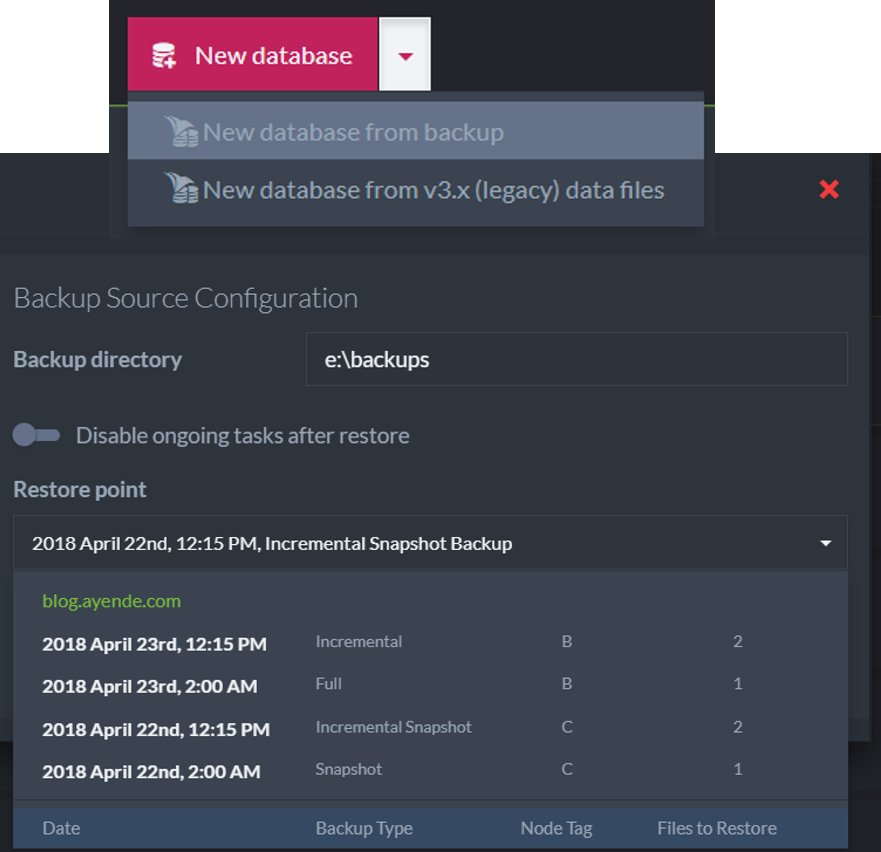
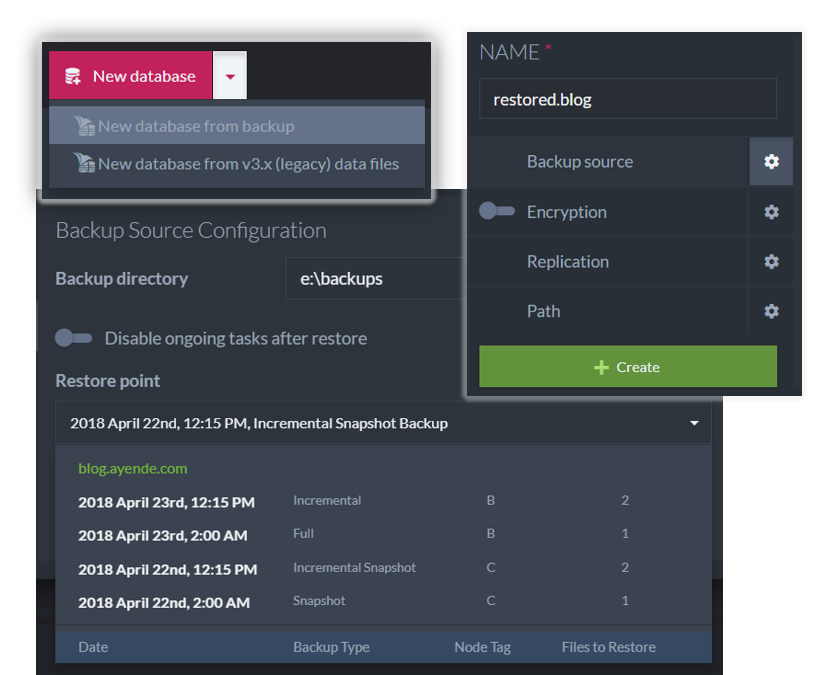
Talking about restoring data and (not) clusters

diff --git a/Ch17/Ch17.md b/Ch17/Ch17.md
@@ -393,20 +393,211 @@ a database from backup. RavenDB attempts to make the restore process simple and 
 need to go to the `Databases` view in the Studio and click on the cheveron near the `New database` button then select 
 `New database from backup`. The result of this is shown in Figure 17.8.
 
-![Setting out to restore a database](./Ch17/img08.png)
+![How to restore a database in RavenDB](./Ch17/img08.png)
 
+Figure 17.8 shows the basic structure of restoring a RavenDB database. You create a new database from backup, provide the name
+for the new database (it is cropped from Figure 17.8 for space reasons) and the path for the backup. Once you have provided the
+path RavenDB will inspect the directory and list the backups that can be restored from that path.
 
+You can see that in this case, we have a Snapshot from node C from April 22th at 2 AM and an incremental snapshot from the same
+node at 12:15 PM of the same day. The next day, April 23, we have a full backup at 2 AM from node B and an incremental backup
+at 12:15 PM. 
+RavenDB make it easy to decide to what point in time you will restore. RavenDB also handles such details as knowing how to start 
+from a full backup or a snapshot and then apply the incremental backups up to the point you have specified. 
 
+Figure 17.8 also contains a bit more information. Some slicing and dicing was required to make it all fit into the pages of this
+book but it should be clear enough. Of great importance is the `Disable ongoing tasks after restore` flag. If this is set, RavenDB
+will disable all the ongoing tasks (backups, subscriptions, ETL processes, etc) in the database. This is what you want if you are
+restoring a database for a secondary purpose (you want another copy of the database, but you don't want the same behavior). You
+want to keep this flag disable if you are actually restoring to replace the database. As this is the primary reason why you would
+restore databases, this is disabled by default.
 
-Important to practice, can take a LONG time.
+> **Backup locations**
+> 
+> RavenDB has no issue if all your databases go to the same location, it uses the database name as part of a backup folder
+> to distinguish which database is responsible for which backup. On restore, you can provide the root backup path for all
+> your backups and RavenDB will probe that for all the available backups, sort them by their database and date.
+> 
+> If you have a lot of databases (or a lot of backups) this can be awkward to search for in a big list. It is usually 
+> easier to specify a separate backup folder for each database (such as `e:\backups\blog.ayende.com`, 
+> `e:\backups\users.northwind`, etc). 
 
-How to restore to a single node
-How to restore to the whole cluster.
+Figure 17.8 also shows some interesting options. If you are using a full backup option, you can specify that the new database 
+will be encrypted (and setup a new key)^[This option is not available for snapshots. A snapshot is a binary copy of the database
+at a given point, and either it is already encrypted and has its own key or it is unencrypted and will require an import/export
+cycle for encryption.]. Figure 17.9 shows the result of the restoration process.
 
-Managing the encryption keys!
+![Setting out to restore a database](./Ch17/img09.png)
 
-#### External replication as a backup strategy
+The restore process can take a _long_ time. In Figure 17.9 you can see that the restore process took 2 seconds or so and the
+database size was about 700MB (see Figure 17.1 for the kind of backup that was restored). This is a very small database, for
+databases who range in the hundreds of GB or more you can expect much higher restore duration. Snapshots speed up the process
+significantly, but the cost in I/O is significant and should be accounted for. 
+You should practice your restores to see how much they take on your own hardware and account for that in any disaster
+recovery plans you make. 
 
-Delayed
+In particular, you need to account for the fact that you need to have the backup media available on the machine you want to
+restore it. Consider a backup strategy that backups to a local folder (retained one week), Amazon S3 (retained one year) and 
+Amazon Glacier (retained forever). 
+
+Assuming that you want to restore from a recent backup, you can expect pretty speedy restore times. I have tested this on a
+AWS machine (`t2.large` with 2 cores, 8 GB of RAM and an EBS volume with 2,000 IOPS). Restoring a full backup from a 5 GB
+backup file had a restore time of about 3 hours. 
+A full backup that is 5 GB in size is compressed json, which usually have _really_ good compression properties. Such a backup
+expanded to a database whose size exceeded 350GB. That takes _time_ to insert to the database. A snapshot can usually
+be restored more quickly. But the same 350GB database will have a snapshot of about 30GB and on the `t2.large` machine is
+took just under an hour.
+
+> **Remember to account for indexing time as well**
+> 
+> When measuring the restore time, you need to also take into account that indexes will need to be updated as well. A 
+> snapshot restore includes the database state (including all the indexes) at the time of the snapshot, but incremental
+> restore on top of that (and full / incremental backups in general) only include the index definitions, not the indexed
+> data as well.
+>
+> RavenDB will complete the restore of the backup when all the documents have been written and will not wait for the indexes
+> to complete. Indexing of the data is done normally throught async tasks at that time and may take a while to complete, 
+> depending on how much there is to index and what it the initial state. This is done to give you access to the documents
+> as soon as possible and enable you to start defining a replication factor for the new database as soon as possible.
+
+I intentionally took the numbers from a relatively low powered machine, since that gives you a good idea on the lower bounds
+of these numbers.
+Your real production machines are likely to be more powerful, but there is still a length of time in which
+the server is going to be restoring the database. And remember that this is when the backup is available on the local machine.
+If you need to restore from Amazon S3 you also need to account for the
+time to fetch the data from S3 (which can be significant for large databases) and using a service like Amazon Glacier has a
+minimum latency of _days_. That has to play a part in your disaster recovery plans. 
+
+#### Backups are not for high availability
+ 
+I've emphasised the length of time restoring from backup can take a few times already, and I feel like I need to explain
+exactly why this is the case. There is a (mistaken) belief in some operations teams that they can get away with having 
+just a single instance, and any reliability issues they have can be handled by restoring from backup.
+
+To a certain extent, this is true, but this is only true if you don't care about the availability of your system. In 
+many cases, relying on restoring from backup may mean that you are stranded without a database for a long time. This is 
+especially true if you don't have a regularly excersized process for actually restoring the data.
+
+Conversely, if you have a cluster and a database that spans multiple nodes does not mean that you can just ignore the 
+issue of backups. Spreading the database on multiple nodes ensures that any single (or even multiple) nodes going down
+will not affect your ability to access (and modify) your data. However, it does absolutely nothing to protect you from 
+accidental data modifications or deletes. That is what a backup gives you, the ability to roll back the clock and go
+to a previous state of the database. 
+
+Another option that you have that combine these two options is the notion of delayed external replication. You can setup
+a replication target that will have a certain amount of lag builtin to it. For example, you can specify that you want a 
+6 hours delay in replication. This means that any change in your system will not be reflected on the replica for 6 hours.
+That gives you a hot node that you can refer to and recover lost or modified data. 
+
+#### Restoring is done locally
+
+When you restore a database, you always provide a file path. This is a path for the _specific_ node that you are restoring
+from and it is local to this node. The database is also going to be restored only to that specific node. This has several
+interesting implications.
+
+First, you need a file path. This seems obvious, but it means that you need a way to expose the backups to RavenDB as a file
+path. This is easy enough when you are backing up to a local path in the first place, but what happens if you have backed
+up to the Azure Blob Storage or to Amazon S3? In that case, you will usually download the files to the local machine and
+then restore them from the local path.
+
+Alternatively, you can use projects such as `S3FS-FUSE` and `BlobFUSE` to mount cloud storage as a normal volume in your system.
+That will allow RavenDB to access the data directly from these systems without having to first download it to the local machine
+and it can save some time in the restoration process.
+
+The second implication of the local restore is that if you want to restore a database to multiple nodes, the typical process
+this is done is by restoring it on one node and then modifying the database group topology to spread it to the other nodes
+in the system. Part of the reason that we make the database available immediately after backup, even before the indexes had
+a chance to run is that it allows us to start replicating the data to other nodes in the cluster sooner.
+
+#### Restoring to mulitple nodes at the same time
+
+As already mentioned previously, restoring from backup can be a lengthy process. Even though we don't recommend that you'll
+treat this as a time sensitive operation, you are likely to want to spend as little time on this as possible. One option 
+that is usually raised is to restore the database on multiple nodes at the same time. 
+
+The idea is that this can save the secondary step of replicating the data to the other nodes in the cluster, because while
+the first node was restoring, so did all the other nodes in database group. The problem with this approach is that this 
+ignores the real costs of actual data transfer. In most cases, you'll restore to the node that you have the latest backup
+on because that is the one that is going to take the least amount of time to restore on.
+Then, once you have the database up and running you can expand it at your leisure. 
+
+Restoring it on other nodes will require to copy all the backup data to the other nodes and then restore there as well. This
+is possible, but it rarely ends up speeding the entire process in any significant way and it usually adds overhead to the
+process.
+There are other issues, as well. When restoring from a full backup on multiple nodes, each instance will generate its own
+separate change vectors for each document. RavenDB is able to handle that and can reconcile such changes automatically, but
+it still means that each of the nodes will have to send all the data to all the other nodes to compare between them.
+
+When using a snapshot, because this is a binary clone of the database at the specified time, restoring on multiple nodes can
+be done without generation of different change vectors. This means that the databases can detect early on that the data they
+have is identical and not even have to send it over the network. For this reason, I'm only going to explain how to perform
+a multiple node restore for snapshots. Even so, it is probably not something that you should usually do. Here is what you'll
+need to do:
+
+* Ensure that on all the nodes in the cluster that you want to restore on you have a way to access the data. This can be 
+  copying it to each machine, having it shared on the network, using mount tools such as `S3FS-FUSE` and the like. 
+  If you are using some sort of shared option (network share, all nodes reading directly from the cloud) you have to 
+  take into account that the nodes might compete with one another for the I/O resources to read from the shared resource.
+* On the first node, restore the database using the original name (`users.northwind`, for example). On any of the other
+  nodes restore the database using different names (`users.northwind.1`, `users.northwind.2`).
+* Wait for the restore process to complete on all the nodes.
+* _Soft_ delete the additional databases on each of the nodes. This will remove the database from the cluster, but retain
+  the data file on disk. 
+* On each of these nodes, rename the database folder on file to the proper database name (`users.northwind`).
+* Add the database to all the other relevant nodes.
+
+What does this process does? First, we restore the database on all the nodes in parallel, under different names. Because
+snapshot is a binary copy of the database, the nodes end up with the same data on disk. We then soft delete the databases
+on all but one of the nodes and rename the database folder to the proper name on disk. When we add new nodes to the 
+database it will be sent to all the nodes in the database group, which will open the database at the specified path and
+find the already restored data there.
+
+For large restores, that can save quite a bit of time, at the expense of more work for the operator. You'll need to decide
+whatever this is worth it for your scenario.
+
+This process works because the change vectors across all the databases instances are the same, so there is no need to 
+reconcile the data between the nodes. Since the reason you want to run this on multiple nodes in parallel is to reduce
+the time to restore, I'm assuming that you have a non trivial amount of data. If you have a full backup, each node will 
+generate different change vectors and each database instance will have to compare each of their documents to the others.
+This will _work_, mind you, but it can take time and a _lot_ of network traffic. 
+
+For that matter, any incremental backups that are applied to the sanpshot restore will also have the exact same problem, 
+but I'm assuming that the amount of modified documents in this case is small enough to effectively not matter. The nodes
+will just need to reconcile the differences between the change vectors of the documents that were changed since the last
+full snapshot. That is unlikely to be a singificant number of documents, so should complete rapidly.
+
+#### Restoring encrypted databases
+
+We talked about encryption in detail in Chapter 14, so I'm going to focus here on just the practical details of handling
+restoring of encrypted databases. In practice, there are three scenarios that interest us in this regard:
+
+* Restoring a full backup
+* Restoring an encrypted snapshot
+* Restoring a non encrypted snapshot
+
+If you'll look at Figure 17.8 you'll see that the restore dialog has an `Encryption` dialog, which is how you'll define 
+the encryption options for the restored database. For a database restored from backup, the data isn't encrypted in the 
+backup file and defining an encryption key will cause the newly restored database to be encrypted.
+
+When you restore from an encrypted snapshot you _must_ provide the encryption key (in the `Encryption` dialog) during 
+the restore process. The encryption key is not stored in the snapshot and you must retrieve it from your own records
+(when you create a new database with encryption, it will prompt you to save the encryption key to a safe location). 
+Once you provide the encryption key for the snapshot, the database will be restored normally and any incremenal 
+updates^[It's important to remember, while the snapshot itself is encrypted, the incremental updates since it was
+taken are _not_ encrypted and are storing the data in plain text mode.]
+that happened after the snapshot was taken will be encrypted and stored in the database.
+
+When resoting an unencrypted snapshot, you cannot provide an encryption key. The snapshot must be first restored and then
+you should export/import the data to a separate encrypted database. 
 
 ### Restoring whole clusters
+
+We talked so far about the process of backing up and restoring individual databases, what about a whole cluster? As it 
+turns out, there is really rarely a need to do such a thing. outside of the databases' data, the only data that the 
+cluster contains is the node topology, which will obviously change for the new cluster.
+
+Because of this, you'll typically just setup a completely new cluster and restore the databases from the previous cluster
+to the new cluster. If you have multiple databases, you can speed things up by restoring each database to a different 
+node to parallelize the process, but the process of setting up new cluster from backup is rarely time sesitive, so it 
+might be easier to just do everything from a single location.
+
